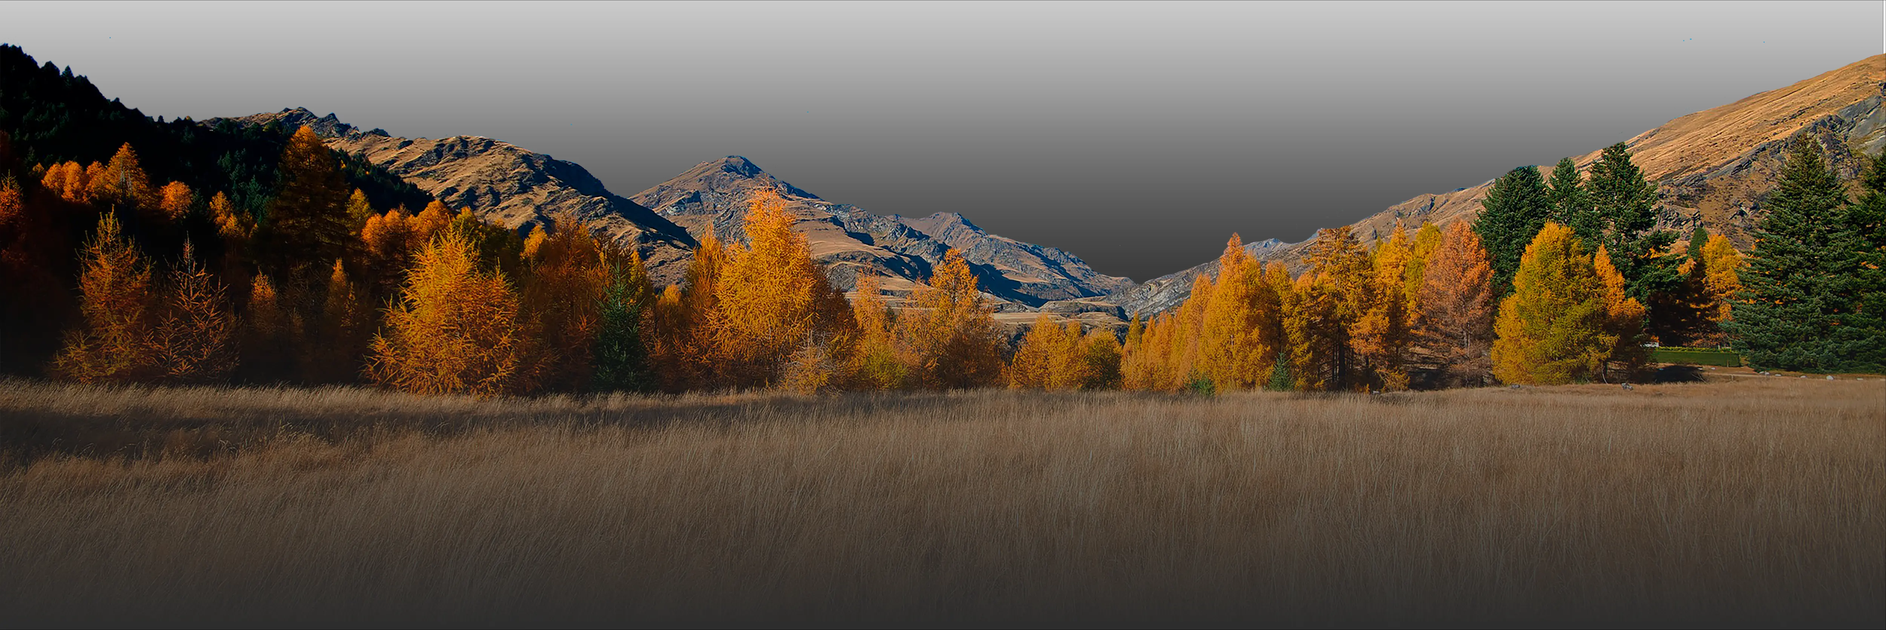
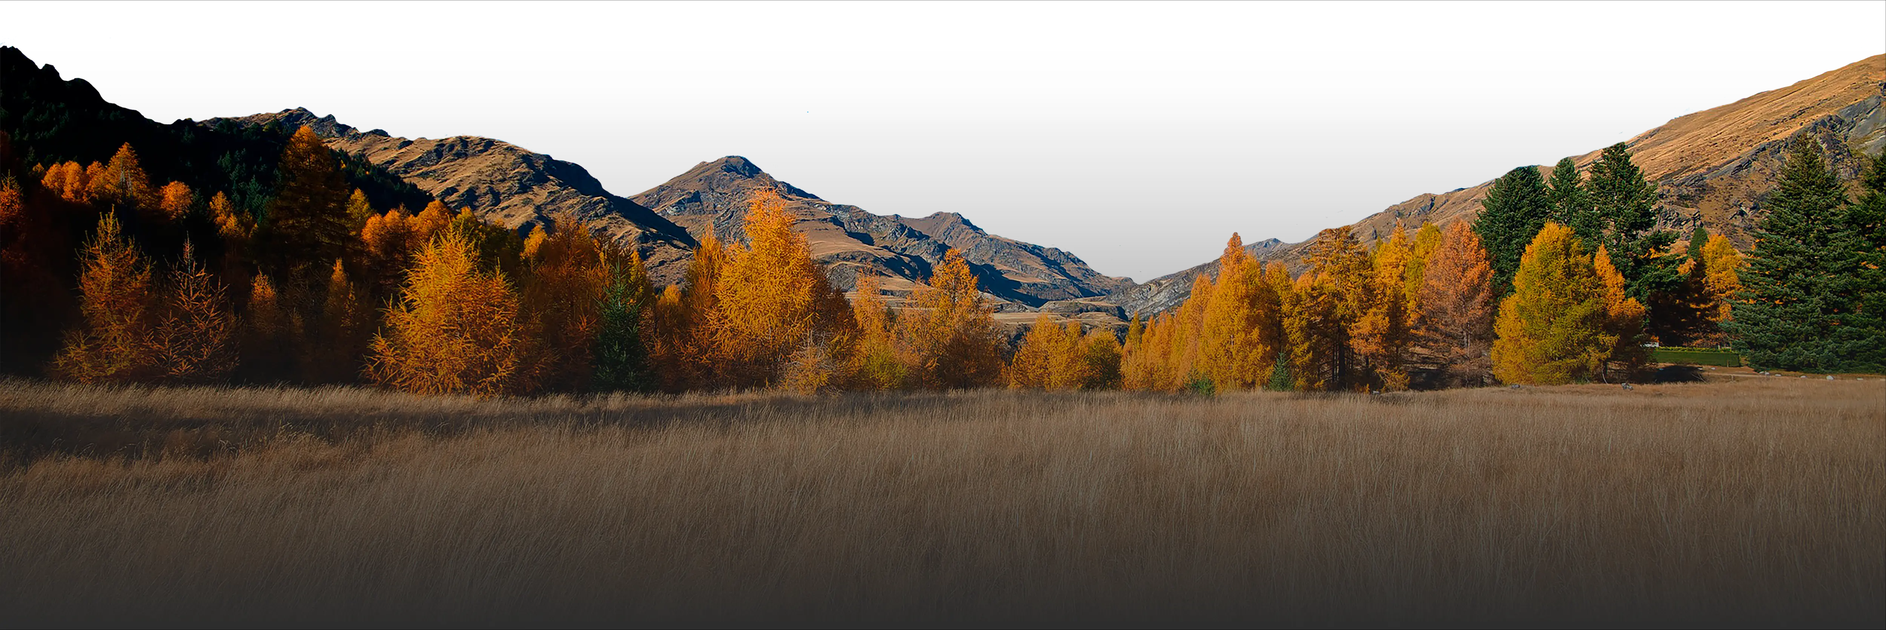
Update 2024-04-18T10:36:04.080Z

Changed region(s): [[0.0, 0.0, 1.0, 0.4668]]

diff --git a/css/main.css b/css/main.css
@@ -1,1 +1,1 @@
-:root{--font-family:"CenturyGothic",sans-serif;--font-accent:"Tetra",sans-serif;--content-width:1170px;--container-offset:15px;--container-width:calc(var(--content-width) + (var(--container-offset) * 2));--offset:50px;--white-color:#fff;--light-color:#eeeded;--dark-color:#1f1f1f;--accentFirst-color:#48388e;--accentSecond-color:#94c020}.custom-checkbox__field:checked+.custom-checkbox__content::after{opacity:1}.custom-checkbox__field:focus+.custom-checkbox__content::before{outline:red solid 2px;outline-offset:2px}.custom-checkbox__field:disabled+.custom-checkbox__content{opacity:.4;pointer-events:none}@font-face{font-family:CenturyGothic;src:url(../fonts/CenturyGothic.woff2) format("woff2");font-weight:400;font-display:swap;font-style:normal}@font-face{font-family:CenturyGothic;src:url(../fonts/CenturyGothic-Bold.woff2) format("woff2");font-weight:700;font-display:swap;font-style:bold}@font-face{font-family:Tetra;src:url(../fonts/Tetra.woff2) format("woff2");font-weight:400;font-display:swap;font-style:normal}html{-webkit-box-sizing:border-box;box-sizing:border-box}*,::after,::before{-webkit-box-sizing:inherit;box-sizing:inherit}.page{height:100%;font-family:var(--font-family,sans-serif);color:var(--light-color);background:url(../img/background.png),var(--dark-color);background-repeat:no-repeat;background-position:center 70vh;background-size:100vw;-webkit-text-size-adjust:100%}.page__body{margin:0;min-width:320px;min-height:100%;font-size:16px;line-height:1.5}img{height:auto;max-width:100%;-o-object-fit:cover;object-fit:cover}a{text-decoration:none}.site-container{overflow:hidden}.is-hidden{display:none!important}.btn-reset{border:none;padding:0;background-color:transparent;cursor:pointer}.list-reset{list-style:none;margin:0;padding:0}.input-reset{-webkit-appearance:none;-moz-appearance:none;appearance:none;border:none;border-radius:0;background-color:#fff}.input-reset::-webkit-search-cancel-button,.input-reset::-webkit-search-decoration,.input-reset::-webkit-search-results-button,.input-reset::-webkit-search-results-decoration{display:none}.visually-hidden{position:absolute;overflow:hidden;margin:-1px;border:0;padding:0;width:1px;height:1px;clip:rect(0 0 0 0)}.container{margin:0 auto;padding:0 var(--container-offset);max-width:var(--container-width)}.js-focus-visible :focus:not(.focus-visible){outline:0}.centered{text-align:center}.dis-scroll{position:fixed;left:0;top:0;overflow:hidden;width:100%;height:100vh;-ms-scroll-chaining:none;overscroll-behavior:none}.page--ios .dis-scroll{position:relative}section{margin-top:112px}section:first-of-type{margin:0}.flex{display:-webkit-box;display:-ms-flexbox;display:flex}.grid{display:-ms-grid;display:grid;-webkit-column-gap:var(--offset);-moz-column-gap:var(--offset);column-gap:var(--offset);-ms-grid-columns:(1fr)[12];grid-template-columns:repeat(12,1fr)}@media (max-width:768px){.grid{-webkit-column-gap:16px;-moz-column-gap:16px;column-gap:16px;-ms-grid-columns:(1fr)[4];grid-template-columns:repeat(4,1fr)}}h1,h2,h3,h4,p{margin:0}.header{position:absolute;left:0;right:0;top:0;z-index:11;padding:10px 0}.header__inner{-webkit-box-pack:justify;-ms-flex-pack:justify;justify-content:space-between;-webkit-box-align:center;-ms-flex-align:center;align-items:center}.swiper__container-bg{height:100%;position:relative;z-index:0}.swiper__container-title{height:100%;width:100%;position:absolute;z-index:10;top:0;left:0;cursor:default}.swiper__title{font-family:var(--font-accent,sans-serif);letter-spacing:20px;font-size:200px;font-weight:700;position:absolute;left:50%;top:50%;-webkit-transform:translate(-50%,-50%);-ms-transform:translate(-50%,-50%);transform:translate(-50%,-50%);text-transform:uppercase;color:var(--white-color)}.swiper-pagination{right:0;font-weight:700}.swiper-pagination-bullet{width:40px;height:40px;text-align:center;line-height:40px;font-size:16px;color:var(--light-color);opacity:.6;background:0 0;border:none}.swiper-pagination-bullet-active{opacity:1!important;-webkit-transform:scale(1.4);-ms-transform:scale(1.4);transform:scale(1.4)}.hero__inner{position:relative;height:100vh;overflow-x:hidden}.hero__swiper-title{line-height:1;text-align:center}.hero__slide-1{background-color:#b47f45;background-image:url(../img/slide1.jpg);background-position:center center;background-size:cover;background-repeat:no-repeat}.hero__slide-2{background-color:#41597b;background-image:url(../img/slide2.jpg);background-position:center center;background-size:cover;background-repeat:no-repeat}.hero__slide-3{background-color:#0b170b;background-image:url(../img/slide3.jpg);background-position:center center;background-size:cover;background-repeat:no-repeat}.hero__slide-4{background-color:#bcaba2;background-image:url(../img/slide4.jpg);background-position:center center;background-size:cover;background-repeat:no-repeat}.hero__slide-5{background-color:#c3cad4;background-image:url(../img/slide5.jpg);background-position:center center;background-size:cover;background-repeat:no-repeat}.hero__slide-6{background-color:#6c706a;background-image:url(../img/slide6.jpg);background-position:center center;background-size:cover;background-repeat:no-repeat}.hero__slide-7{background-color:#b47f45;background-image:url(../img/slide1.jpg);background-position:center center;background-size:cover;background-repeat:no-repeat}.hero__slide-8{background-color:#41597b;background-image:url(../img/slide2.jpg);background-position:center center;background-size:cover;background-repeat:no-repeat}.hero__slide-9{background-color:#0b170b;background-image:url(../img/slide3.jpg);background-position:center center;background-size:cover;background-repeat:no-repeat}.hero__slide-10{background-color:#b47f45;background-image:url(../img/slide1.jpg);background-position:center center;background-size:cover;background-repeat:no-repeat}.hero__slide-11{background-color:#41597b;background-image:url(../img/slide2.jpg);background-position:center center;background-size:cover;background-repeat:no-repeat}.hero__slide-12{background-color:#0b170b;background-image:url(../img/slide3.jpg);background-position:center center;background-size:cover;background-repeat:no-repeat}.hero__slide-13{background-color:#b47f45;background-image:url(../img/slide1.jpg);background-position:center center;background-size:cover;background-repeat:no-repeat}.hero__slide-14{background-color:#41597b;background-image:url(../img/slide2.jpg);background-position:center center;background-size:cover;background-repeat:no-repeat}.hero__slide-15{background-color:#0b170b;background-image:url(../img/slide3.jpg);background-position:center center;background-size:cover;background-repeat:no-repeat}.hero__container{position:absolute;left:50%;top:50%;-webkit-transform:translate(-50%,-50%);-ms-transform:translate(-50%,-50%);transform:translate(-50%,-50%);z-index:0;width:100%;height:100%}.hero__human{position:absolute;left:50%;bottom:0;-webkit-transform:translateX(-50%);-ms-transform:translateX(-50%);transform:translateX(-50%);z-index:1}.fonts__inner{-webkit-box-pack:justify;-ms-flex-pack:justify;justify-content:space-between;gap:40px;color:var(--dark-color)}.fonts__block{max-width:350px;text-align:center}.fonts__block-accent{font-family:var(--font-accent);letter-spacing:1px}.fonts__block-accent .fonts__title::after{content:"03"}.fonts__block-text .fonts__title::after{content:"01"}.fonts__block-bold{font-weight:700}.fonts__block-bold .fonts__title::after{content:"02"}.fonts__title{font-family:inherit;font-weight:inherit;font-size:22px;margin-bottom:40px;position:relative;text-align:center}.fonts__title::after{content:"01";position:absolute;left:15%;top:50%;-webkit-transform:translateY(-50%);-ms-transform:translateY(-50%);transform:translateY(-50%);width:10px;height:10px;font-size:60px;font-family:var(--font-family);font-weight:700;line-height:10px;opacity:.4;background-image:url(..);background-repeat:no-repeat}.fonts__text{overflow-wrap:break-word;word-wrap:break-word;-ms-word-break:break-all;word-break:break-word}.colors__inner{-ms-flex-pack:distribute;justify-content:space-around;gap:40px;color:var(--dark-color)}.colors__block{text-align:center;-webkit-box-orient:vertical;-webkit-box-direction:normal;-ms-flex-direction:column;flex-direction:column;-webkit-box-align:center;-ms-flex-align:center;align-items:center}.colors__image{margin-bottom:10px}.video__inner{position:relative}.video__tablet{max-width:1170px;width:100%;max-height:612px;-o-object-fit:fill;object-fit:fill}.video__content{position:absolute;left:87px;top:28px;max-width:990px}.about__inner{-webkit-box-align:center;-ms-flex-align:center;align-items:center;-webkit-box-pack:center;-ms-flex-pack:center;justify-content:center;font-size:20px}.about__logo{width:100%;grid-column:3/8 span;border-radius:30px}.about__description{grid-column:2/10 span;height:-webkit-min-content;height:-moz-min-content;height:min-content;text-align:justify;margin-bottom:30px}.about__subtitle{grid-column:4/6 span;text-align:center}.ornaments__inner{overflow-x:hidden;width:100%;position:relative;margin-bottom:50px}.ornaments__image{max-height:300px;vertical-align:bottom;max-width:-webkit-max-content;max-width:-moz-max-content;max-width:max-content}.gallery__inner{margin:0 auto;padding:0 15px;row-gap:50px;-webkit-box-align:center;-ms-flex-align:center;align-items:center;-webkit-box-pack:center;-ms-flex-pack:center;justify-content:center}.gallery__full{height:110vh;-ms-grid-column-span:12;grid-column:12 span}.gallery__full-img{width:100%}.banners__item{overflow-x:hidden;width:100%;position:relative;margin-bottom:50px}.banners__item-image{height:110vh;width:200%;vertical-align:bottom;max-width:-webkit-max-content;max-width:-moz-max-content;max-width:max-content}.footer__inner{margin:0 auto;padding:0 15px;row-gap:50px;-webkit-box-align:center;-ms-flex-align:center;align-items:center;-webkit-box-pack:center;-ms-flex-pack:center;justify-content:center}
+:root{--font-family:"CenturyGothic",sans-serif;--font-accent:"Tetra",sans-serif;--content-width:1170px;--container-offset:15px;--container-width:calc(var(--content-width) + (var(--container-offset) * 2));--offset:50px;--white-color:#fff;--light-color:#eeeded;--dark-color:#1f1f1f;--accentFirst-color:#48388e;--accentSecond-color:#94c020}.custom-checkbox__field:checked+.custom-checkbox__content::after{opacity:1}.custom-checkbox__field:focus+.custom-checkbox__content::before{outline:red solid 2px;outline-offset:2px}.custom-checkbox__field:disabled+.custom-checkbox__content{opacity:.4;pointer-events:none}@font-face{font-family:CenturyGothic;src:url(../fonts/CenturyGothic.woff2) format("woff2");font-weight:400;font-display:swap;font-style:normal}@font-face{font-family:CenturyGothic;src:url(../fonts/CenturyGothic-Bold.woff2) format("woff2");font-weight:700;font-display:swap;font-style:bold}@font-face{font-family:Tetra;src:url(../fonts/Tetra.woff2) format("woff2");font-weight:400;font-display:swap;font-style:normal}html{-webkit-box-sizing:border-box;box-sizing:border-box}*,::after,::before{-webkit-box-sizing:inherit;box-sizing:inherit}.page{height:100%;font-family:var(--font-family,sans-serif);color:var(--light-color);background:url(../img/background.png),var(--dark-color);background-repeat:no-repeat;background-position:center 70vh;background-size:100vw;-webkit-text-size-adjust:100%}.page__body{margin:0;min-width:320px;min-height:100%;font-size:16px;line-height:1.5}img{height:auto;max-width:100%;-o-object-fit:cover;object-fit:cover}a{text-decoration:none}.site-container{overflow:hidden}.is-hidden{display:none!important}.btn-reset{border:none;padding:0;background-color:transparent;cursor:pointer}.list-reset{list-style:none;margin:0;padding:0}.input-reset{-webkit-appearance:none;-moz-appearance:none;appearance:none;border:none;border-radius:0;background-color:#fff}.input-reset::-webkit-search-cancel-button,.input-reset::-webkit-search-decoration,.input-reset::-webkit-search-results-button,.input-reset::-webkit-search-results-decoration{display:none}.visually-hidden{position:absolute;overflow:hidden;margin:-1px;border:0;padding:0;width:1px;height:1px;clip:rect(0 0 0 0)}.container{margin:0 auto;padding:0 var(--container-offset);max-width:var(--container-width)}.js-focus-visible :focus:not(.focus-visible){outline:0}.centered{text-align:center}.dis-scroll{position:fixed;left:0;top:0;overflow:hidden;width:100%;height:100vh;-ms-scroll-chaining:none;overscroll-behavior:none}.page--ios .dis-scroll{position:relative}section{margin-top:112px}section:first-of-type{margin:0}.flex{display:-webkit-box;display:-ms-flexbox;display:flex}.grid{display:-ms-grid;display:grid;-webkit-column-gap:var(--offset);-moz-column-gap:var(--offset);column-gap:var(--offset);-ms-grid-columns:(1fr)[12];grid-template-columns:repeat(12,1fr)}@media (max-width:768px){.grid{-webkit-column-gap:16px;-moz-column-gap:16px;column-gap:16px;-ms-grid-columns:(1fr)[4];grid-template-columns:repeat(4,1fr)}}h1,h2,h3,h4,p{margin:0}.header{position:absolute;left:0;right:0;top:0;z-index:11;padding:10px 0}.header__inner{-webkit-box-pack:justify;-ms-flex-pack:justify;justify-content:space-between;-webkit-box-align:center;-ms-flex-align:center;align-items:center}.swiper__container-bg{height:100%;position:relative;z-index:0}.swiper__container-title{height:100%;width:100%;position:absolute;z-index:10;top:0;left:0;cursor:default}.swiper__title{font-family:var(--font-accent,sans-serif);letter-spacing:20px;font-size:200px;font-weight:700;position:absolute;left:50%;top:50%;-webkit-transform:translate(-50%,-50%);-ms-transform:translate(-50%,-50%);transform:translate(-50%,-50%);text-transform:uppercase;color:var(--white-color)}.swiper-pagination{right:0;font-weight:700}.swiper-pagination-bullet{width:40px;height:40px;text-align:center;line-height:40px;font-size:16px;color:var(--light-color);opacity:.6;background:0 0;border:none}.swiper-pagination-bullet-active{opacity:1!important;-webkit-transform:scale(1.4);-ms-transform:scale(1.4);transform:scale(1.4)}.hero__inner{position:relative;height:100vh;overflow-x:hidden}.hero__swiper-title{line-height:1;text-align:center}.hero__slide-1{background-color:#b47f45;background-image:url(../img/slide1.jpg);background-position:center center;background-size:cover;background-repeat:no-repeat}.hero__slide-2{background-color:#41597b;background-image:url(../img/slide2.jpg);background-position:center center;background-size:cover;background-repeat:no-repeat}.hero__slide-3{background-color:#0b170b;background-image:url(../img/slide3.jpg);background-position:center center;background-size:cover;background-repeat:no-repeat}.hero__slide-4{background-color:#bcaba2;background-image:url(../img/slide4.jpg);background-position:center center;background-size:cover;background-repeat:no-repeat}.hero__slide-5{background-color:#c3cad4;background-image:url(../img/slide5.jpg);background-position:center center;background-size:cover;background-repeat:no-repeat}.hero__slide-6{background-color:#6c706a;background-image:url(../img/slide6.jpg);background-position:center center;background-size:cover;background-repeat:no-repeat}.hero__slide-7{background-color:#b47f45;background-image:url(../img/slide7.jpg);background-position:center center;background-size:cover;background-repeat:no-repeat}.hero__container{position:absolute;left:50%;top:50%;-webkit-transform:translate(-50%,-50%);-ms-transform:translate(-50%,-50%);transform:translate(-50%,-50%);z-index:0;width:100%;height:100%}.hero__human{position:absolute;left:50%;bottom:0;-webkit-transform:translateX(-50%);-ms-transform:translateX(-50%);transform:translateX(-50%);z-index:1}.fonts__inner{-webkit-box-pack:justify;-ms-flex-pack:justify;justify-content:space-between;gap:40px;color:var(--dark-color)}.fonts__block{max-width:350px;text-align:center}.fonts__block-accent{font-family:var(--font-accent);letter-spacing:1px}.fonts__block-accent .fonts__title::after{content:"03"}.fonts__block-text .fonts__title::after{content:"01"}.fonts__block-bold{font-weight:700}.fonts__block-bold .fonts__title::after{content:"02"}.fonts__title{font-family:inherit;font-weight:inherit;font-size:22px;margin-bottom:40px;position:relative;text-align:center}.fonts__title::after{content:"01";position:absolute;left:15%;top:50%;-webkit-transform:translateY(-50%);-ms-transform:translateY(-50%);transform:translateY(-50%);width:10px;height:10px;font-size:60px;font-family:var(--font-family);font-weight:700;line-height:10px;opacity:.4;background-image:url(..);background-repeat:no-repeat}.fonts__text{overflow-wrap:break-word;word-wrap:break-word;-ms-word-break:break-all;word-break:break-word}.colors__inner{-ms-flex-pack:distribute;justify-content:space-around;gap:40px;color:var(--dark-color)}.colors__block{text-align:center;-webkit-box-orient:vertical;-webkit-box-direction:normal;-ms-flex-direction:column;flex-direction:column;-webkit-box-align:center;-ms-flex-align:center;align-items:center}.colors__image{margin-bottom:10px}.video__inner{position:relative}.video__tablet{max-width:1170px;width:100%;max-height:612px;-o-object-fit:fill;object-fit:fill}.video__content{position:absolute;left:87px;top:28px;max-width:990px}.about__inner{-webkit-box-align:center;-ms-flex-align:center;align-items:center;-webkit-box-pack:center;-ms-flex-pack:center;justify-content:center;font-size:20px}.about__logo{width:100%;grid-column:3/8 span;border-radius:30px}.about__description{grid-column:2/10 span;height:-webkit-min-content;height:-moz-min-content;height:min-content;text-align:justify;margin-bottom:30px}.about__subtitle{grid-column:4/6 span;text-align:center}.ornaments__inner{overflow-x:hidden;width:100%;position:relative;margin-bottom:50px}.ornaments__image{max-height:300px;vertical-align:bottom;max-width:-webkit-max-content;max-width:-moz-max-content;max-width:max-content}.gallery__inner{margin:0 auto;padding:0 15px;row-gap:50px;-webkit-box-align:center;-ms-flex-align:center;align-items:center;-webkit-box-pack:center;-ms-flex-pack:center;justify-content:center}.gallery__full{height:110vh;-ms-grid-column-span:12;grid-column:12 span}.gallery__full-img{width:100%}.banners__item{overflow-x:hidden;width:100%;position:relative;margin-bottom:50px}.banners__item-image{height:110vh;width:200%;vertical-align:bottom;max-width:-webkit-max-content;max-width:-moz-max-content;max-width:max-content}.footer{-webkit-box-pack:end;-ms-flex-pack:end;justify-content:flex-end}.footer-img{margin:0 auto;padding:0}

diff --git a/index.html b/index.html
@@ -1,1 +1,1 @@
-<!DOCTYPE html><html class="page" lang="ru"><head><meta charset="UTF-8"><meta name="viewport" content="width=device-width,initial-scale=1"><link rel="shortcut icon" href="favicon.ico" type="image/x-icon"><meta http-equiv="X-UA-Compatible" content="ie=edge"><link rel="preload" href="fonts/CenturyGothic.woff2" as="font" type="font/woff2" crossorigin><link rel="preload" href="fonts/CenturyGothic-Bold.woff2" as="font" type="font/woff2" crossorigin><link rel="preload" href="fonts/Tetra.woff2" as="font" type="font/woff2" crossorigin><link rel="stylesheet" href="css/vendor.css"><link rel="stylesheet" href="css/main.css"><script defer="defer" src="js/main.js"></script><title>Главная</title></head><body class="page__body"><div class="site__container"><header class="header"><div class="container"><div class="header__inner flex"><a class="header__link"><img class="header__img" src="img/logo-header.png" alt="ЮУ" width="150px"></a><img class="header__descr" src="img/descr-header.png" alt="Южный Урал" width="300px"></div></div></header><main class="main"><section class="hero"><div class="hero__inner"><div class="swiper__container swiper__container-bg"><div class="swiper-wrapper hero__swiper hero__swiper-bg"><div class="swiper-slide hero__slide-1"></div><div class="swiper-slide hero__slide-2"></div><div class="swiper-slide hero__slide-3"></div><div class="swiper-slide hero__slide-4"></div><div class="swiper-slide hero__slide-5"></div><div class="swiper-slide hero__slide-6"></div><div class="swiper-slide hero__slide-7"></div><div class="swiper-slide hero__slide-8"></div><div class="swiper-slide hero__slide-9"></div><div class="swiper-slide hero__slide-10"></div><div class="swiper-slide hero__slide-11"></div><div class="swiper-slide hero__slide-12"></div><div class="swiper-slide hero__slide-13"></div><div class="swiper-slide hero__slide-14"></div><div class="swiper-slide hero__slide-15"></div></div></div><div class="hero__container container"><img class="hero__human" src="img/hero.png" alt="Человек" width="400px"></div><div class="swiper__container swiper__container-title"><div class="swiper-wrapper hero__swiper hero__swiper-title"><div class="swiper-slide"><h1 class="swiper__title">Река Ай</h1></div><div class="swiper-slide"><h1 class="swiper__title">Золотой пляж</h1></div><div class="swiper-slide"><h1 class="swiper__title">Зюраткуль</h1></div><div class="swiper-slide"><h1 class="swiper__title">Аракуль</h1></div><div class="swiper-slide"><h1 class="swiper__title">! Иримерь</h1></div><div class="swiper-slide"><h1 class="swiper__title">Таганай</h1></div><div class="swiper-slide"><h1 class="swiper__title">! Нургушь</h1></div><div class="swiper-slide"><h1 class="swiper__title">! Тургояк</h1></div><div class="swiper-slide"><h1 class="swiper__title">!</h1></div><div class="swiper-slide"><h1 class="swiper__title">!</h1></div><div class="swiper-slide"><h1 class="swiper__title">!</h1></div><div class="swiper-slide"><h1 class="swiper__title">!</h1></div><div class="swiper-slide"><h1 class="swiper__title">!</h1></div><div class="swiper-slide"><h1 class="swiper__title">!</h1></div><div class="swiper-slide"><h1 class="swiper__title">!</h1></div></div><div class="swiper-pagination"></div></div></div></section><section class="fonts"><div class="container"><div class="fonts__inner flex"><div class="fonts__block fonts__block-text"><h2 class="fonts__title">CenturyGothic Regular</h2><p class="fonts__text">Аа Бб Вв Гг Дд Ее Жж Зз Ии Йй Кк Лл Мм Нн Оо Пп Рр Сс Тт Уу Фф Хх Цц Чч Шш Щщ Ъъ Ыы Ьь Ээ Юю Яя</p></div><div class="fonts__block fonts__block-bold"><h2 class="fonts__title">CenturyGothic Bold</h2><p class="fonts__text">Аа Бб Вв Гг Дд Ее Жж Зз Ии Йй Кк Лл Мм Нн Оо Пп Рр Сс Тт Уу Фф Хх Цц Чч Шш Щщ Ъъ Ыы Ьь Ээ Юю Яя</p></div><div class="fonts__block fonts__block-accent"><h2 class="fonts__title">Tetra Regular</h2><p class="fonts__text">Аа Бб Вв Гг Дд Ее Жж Зз Ии Йй Кк Лл Мм Нн Оо Пп Рр Сс Тт Уу Фф Хх Цц Чч Шш Щщ Ъъ Ыы Ьь Ээ Юю Яя</p></div></div></div></section><section class="colors"><div class="container"><div class="colors__inner flex"><div class="colors__block flex"><img class="colors__image" src="img/color1.png" alt="Фиолетовый цвет" width="150px"><span class="colors__code"># 005BBE</span></div><div class="colors__block flex"><img class="colors__image" src="img/color2.png" alt="Cалатовый цвет" width="150px"><span class="colors__code"># 95c11f</span></div><div class="colors__block flex"><img class="colors__image" src="img/color3.png" alt="Белый цвет" width="150px"><span class="colors__code"># eeeded</span></div></div></div></section><section class="video"><div class="container"><div class="video__inner"><img class="video__tablet" src="img/tablet.png" alt=""><video class="video__content" controls width="1170px"><source src="video.mp4" type="video/mp4"></video></div></div></section><section class="about"><div class="container"><div class="about__inner grid"><img class="about__logo" src="img/svg/logo-color.svg" alt="Южный Урал"><p class="about__description">Южный Урал удивительный уголок России где встречаются величественные горные вершины, кристально чистые озера и таинственные пещеры. Этот регион удивит вас своим разнообразием природы и историческим населением. Здесь можно насладиться необычайно красивыми горами, вершины которых окутаны в облака, а воздух наполнен свежестью и дыханием ветра. У подножья скал раскинулись живописные озера, словно зеркала, отражающие небесную голубизну. Их воды кристально чисты, словно жидкий изумруд и таинственно манит своей глубиной. Погрузитесь в уникальную атмосферу и ощутите всю прелесть этого удивительного региона! Южный Урал-вершина притяжения.</p><p class="about__subtitle">Южный Урал вершина вершина притяжения!</p></div></div></section><section class="ornaments"><div class="ornaments__inner"><img class="ornaments__image" src="img/ornaments.png" alt="Орнаменты" width="5000px"></div></section><section class="gallery"><div class="gallery__inner grid"><div class="gallery__full"><img class="gallery__full-img" src="img/pattern-full.png" alt="Паттерн"></div></div></section><section class="banners"><div class="banners__inner"><div class="banners__one banners__item"><img class="banners__one-image banners__item-image" src="img/banner1.jpg" alt="Баннер" width="3500px"></div><div class="banners__two banners__item"><img class="banners__two-image banners__item-image" src="img/banner2.jpg" alt="Баннер" width="3500px"></div><div class="banners__three banners__item"><img class="banners__three-image banners__item-image" src="img/banner3.jpg" alt="Баннер" width="3500px"></div></div></section></main><footer class="footer"><div class="footer__inner"><img class="footer__image" src="img/footer.png" alt="Лес"></div></footer></div></body></html>
+<!DOCTYPE html><html class="page" lang="ru"><head><meta charset="UTF-8"><meta name="viewport" content="width=device-width,initial-scale=1"><link rel="shortcut icon" href="favicon.ico" type="image/x-icon"><meta http-equiv="X-UA-Compatible" content="ie=edge"><link rel="preload" href="fonts/CenturyGothic.woff2" as="font" type="font/woff2" crossorigin><link rel="preload" href="fonts/CenturyGothic-Bold.woff2" as="font" type="font/woff2" crossorigin><link rel="preload" href="fonts/Tetra.woff2" as="font" type="font/woff2" crossorigin><link rel="stylesheet" href="css/vendor.css"><link rel="stylesheet" href="css/main.css"><script defer="defer" src="js/main.js"></script><title>Главная</title></head><body class="page__body"><div class="site__container"><header class="header"><div class="container"><div class="header__inner flex"><a class="header__link"><img class="header__img" src="img/logo-header.png" alt="ЮУ" width="150px"></a><img class="header__descr" src="img/descr-header.png" alt="Южный Урал" width="300px"></div></div></header><main class="main"><section class="hero"><div class="hero__inner"><div class="swiper__container swiper__container-bg"><div class="swiper-wrapper hero__swiper hero__swiper-bg"><div class="swiper-slide hero__slide-1"></div><div class="swiper-slide hero__slide-2"></div><div class="swiper-slide hero__slide-3"></div><div class="swiper-slide hero__slide-4"></div><div class="swiper-slide hero__slide-5"></div><div class="swiper-slide hero__slide-6"></div><div class="swiper-slide hero__slide-7"></div></div></div><div class="hero__container container"><img class="hero__human" src="img/hero.png" alt="Человек" width="400px"></div><div class="swiper__container swiper__container-title"><div class="swiper-wrapper hero__swiper hero__swiper-title"><div class="swiper-slide"><h1 class="swiper__title">Река Ай</h1></div><div class="swiper-slide"><h1 class="swiper__title">Тургояк</h1></div><div class="swiper-slide"><h1 class="swiper__title">Зюраткуль</h1></div><div class="swiper-slide"><h1 class="swiper__title">Аракуль</h1></div><div class="swiper-slide"><h1 class="swiper__title">Иримерь</h1></div><div class="swiper-slide"><h1 class="swiper__title">Таганай</h1></div><div class="swiper-slide"><h1 class="swiper__title">Нургуш</h1></div></div><div class="swiper-pagination"></div></div></div></section><section class="fonts"><div class="container"><div class="fonts__inner flex"><div class="fonts__block fonts__block-text"><h2 class="fonts__title">CenturyGothic Regular</h2><p class="fonts__text">Аа Бб Вв Гг Дд Ее Жж Зз Ии Йй Кк Лл Мм Нн Оо Пп Рр Сс Тт Уу Фф Хх Цц Чч Шш Щщ Ъъ Ыы Ьь Ээ Юю Яя</p></div><div class="fonts__block fonts__block-bold"><h2 class="fonts__title">CenturyGothic Bold</h2><p class="fonts__text">Аа Бб Вв Гг Дд Ее Жж Зз Ии Йй Кк Лл Мм Нн Оо Пп Рр Сс Тт Уу Фф Хх Цц Чч Шш Щщ Ъъ Ыы Ьь Ээ Юю Яя</p></div><div class="fonts__block fonts__block-accent"><h2 class="fonts__title">Tetra Regular</h2><p class="fonts__text">Аа Бб Вв Гг Дд Ее Жж Зз Ии Йй Кк Лл Мм Нн Оо Пп Рр Сс Тт Уу Фф Хх Цц Чч Шш Щщ Ъъ Ыы Ьь Ээ Юю Яя</p></div></div></div></section><section class="colors"><div class="container"><div class="colors__inner flex"><div class="colors__block flex"><img class="colors__image" src="img/color1.png" alt="Фиолетовый цвет" width="150px"><span class="colors__code"># 005BBE</span></div><div class="colors__block flex"><img class="colors__image" src="img/color2.png" alt="Cалатовый цвет" width="150px"><span class="colors__code"># 95c11f</span></div><div class="colors__block flex"><img class="colors__image" src="img/color3.png" alt="Белый цвет" width="150px"><span class="colors__code"># eeeded</span></div></div></div></section><section class="video"><div class="container"><div class="video__inner"><img class="video__tablet" src="img/tablet.png" alt=""><video class="video__content" controls width="1170px"><source src="video.mp4" type="video/mp4"></video></div></div></section><section class="about"><div class="container"><div class="about__inner grid"><img class="about__logo" src="img/svg/logo-color.svg" alt="Южный Урал"><p class="about__description">Южный Урал удивительный уголок России где встречаются величественные горные вершины, кристально чистые озера и таинственные пещеры. Этот регион удивит вас своим разнообразием природы и историческим населением. Здесь можно насладиться необычайно красивыми горами, вершины которых окутаны в облака, а воздух наполнен свежестью и дыханием ветра. У подножья скал раскинулись живописные озера, словно зеркала, отражающие небесную голубизну. Их воды кристально чисты, словно жидкий изумруд и таинственно манит своей глубиной. Погрузитесь в уникальную атмосферу и ощутите всю прелесть этого удивительного региона! Южный Урал-вершина притяжения.</p><p class="about__subtitle">Южный Урал вершина вершина притяжения!</p></div></div></section><section class="ornaments"><div class="ornaments__inner"><img class="ornaments__image" src="img/ornaments.png" alt="Орнаменты" width="5000px"></div></section><section class="gallery"><div class="gallery__inner grid"><div class="gallery__full"><img class="gallery__full-img" src="img/pattern-full.png" alt="Паттерн"></div></div></section><section class="banners"><div class="banners__inner"><div class="banners__one banners__item"><img class="banners__one-image banners__item-image" src="img/banner1.png" alt="Баннер" width="3500px"></div><div class="banners__two banners__item"><img class="banners__two-image banners__item-image" src="img/banner2.jpg" alt="Баннер" width="3500px"></div><div class="banners__three banners__item"><img class="banners__three-image banners__item-image" src="img/banner3.jpg" alt="Баннер" width="3500px"></div></div></section></main><footer class="footer flex"><img class="footer__image" src="img/footer.png" alt="Лес"></footer></div></body></html>
